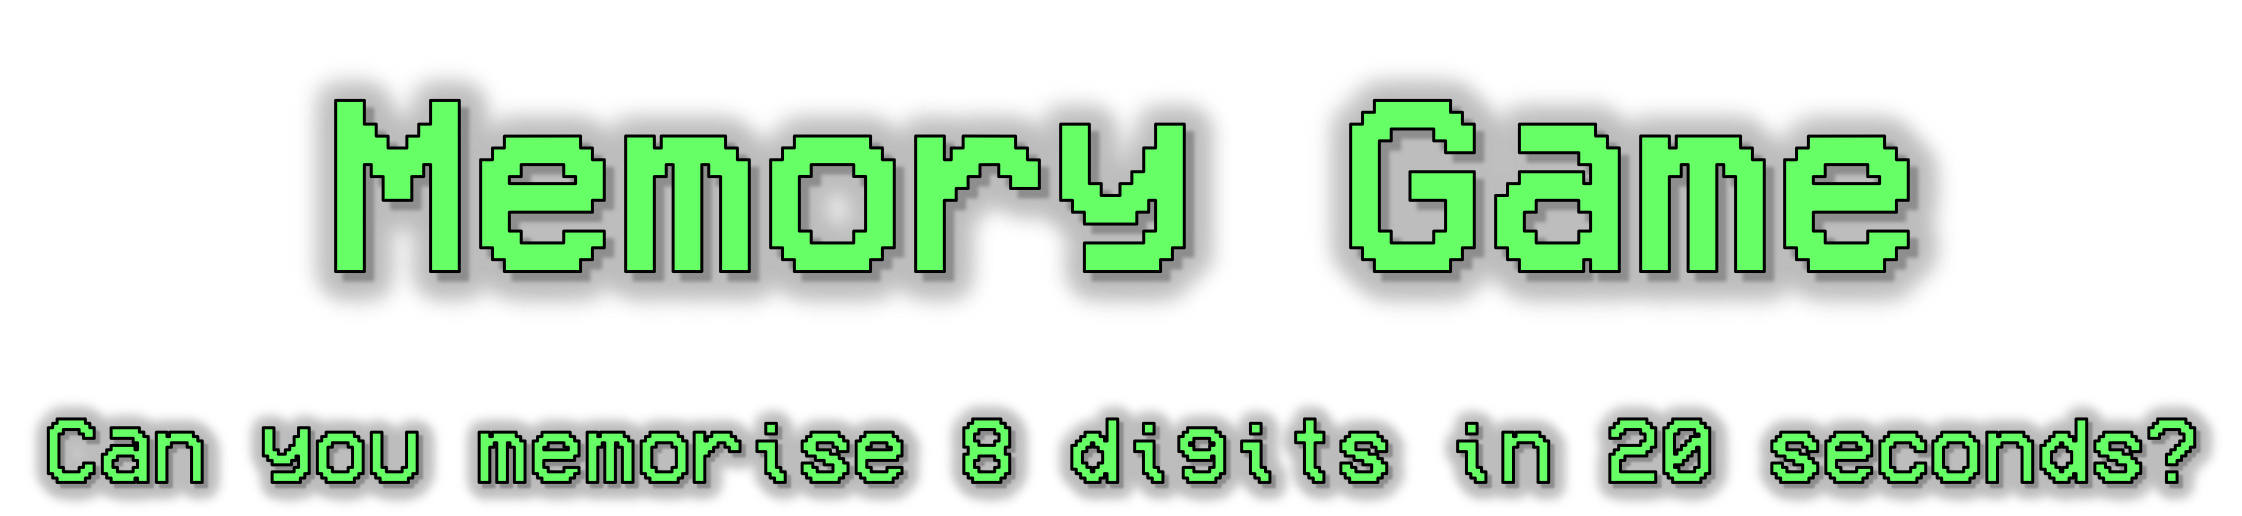
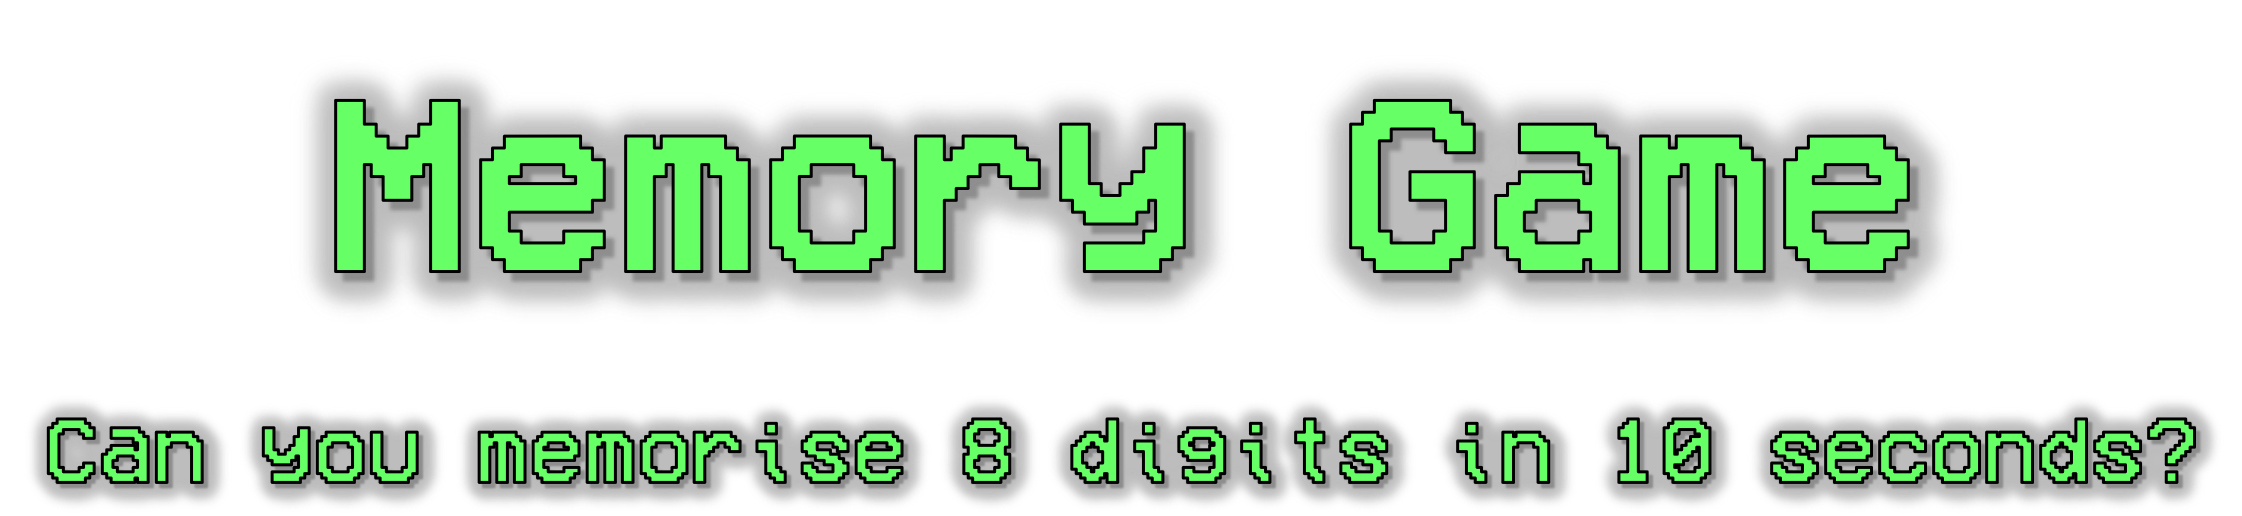
Add visual countdown to memory game

Changed region(s): [[0.8118, 0.8372, 0.9367, 0.9302], [0.6869, 0.8062, 0.7493, 0.9612]]

diff --git a/core/src/main/java/io/github/pirateducks/level/college/ConstantineMemoryGame.java b/core/src/main/java/io/github/pirateducks/level/college/ConstantineMemoryGame.java
@@ -19,6 +19,7 @@ import io.github.pirateducks.screen.Screen;
 import javax.swing.*;
 import java.util.Arrays;
 import java.util.Random;
+import java.util.concurrent.TimeUnit;
 
 
 public class ConstantineMemoryGame extends College {
@@ -32,6 +33,8 @@ public class ConstantineMemoryGame extends College {
     private Sprite startGameSprite;
     private Texture closeTexture;
     private Sprite closeSprite;
+    private Texture countdownTexture;
+    private Sprite countdownSprite;
 
 
     private Array<Texture> cardTextures = new Array<>();
@@ -90,12 +93,19 @@ public class ConstantineMemoryGame extends College {
             currentxpos += 105;
         }
 
+        countdownTexture = new Texture("memoryGame/countdown-10.png");
+        countdownSprite = new Sprite(countdownTexture);
+
+        scaleRatio = (countdownSprite.getWidth()/camera.viewportWidth * 6.0f);
+        countdownSprite.setSize(countdownSprite.getWidth()/scaleRatio,countdownSprite.getHeight()/scaleRatio);
+        countdownSprite.setPosition(camera.viewportWidth/2 - countdownSprite.getWidth()/2,(camera.viewportHeight/2 - countdownSprite.getHeight()/2 - 100));
+
         startGameTexture = new Texture("memoryGame/start-game.png");
         startGameSprite = new Sprite(startGameTexture);
 
         scaleRatio = (startGameSprite.getWidth()/camera.viewportWidth * 3.0f);
         startGameSprite.setSize(startGameSprite.getWidth()/scaleRatio,startGameSprite.getHeight()/scaleRatio);
-        startGameSprite.setPosition(camera.viewportWidth/2 - startGameSprite.getWidth()/2,(camera.viewportHeight/2 - startGameSprite.getHeight()/2 - 100));
+        startGameSprite.setPosition(camera.viewportWidth/2 - startGameSprite.getWidth()/2,(camera.viewportHeight/2 - startGameSprite.getHeight()/2 - 200));
 
         buttons.add(startGameSprite);
 
@@ -105,7 +115,7 @@ public class ConstantineMemoryGame extends College {
 
         scaleRatio = (closeSprite.getWidth()/camera.viewportWidth * 3.0f);
         closeSprite.setSize(closeSprite.getWidth()/scaleRatio,closeSprite.getHeight()/scaleRatio);
-        closeSprite.setPosition(camera.viewportWidth/2 - closeSprite.getWidth()/2,(camera.viewportHeight/2 - closeSprite.getHeight()/2 - 100));
+        closeSprite.setPosition(camera.viewportWidth/2 - closeSprite.getWidth()/2,(camera.viewportHeight/2 - closeSprite.getHeight()/2 - 200));
 
         buttons.add(closeSprite);
         closeSprite.setAlpha(0);
@@ -163,6 +173,10 @@ public class ConstantineMemoryGame extends College {
             closeSprite.draw(batch);
         }
 
+        if (countdownSprite != null){
+            countdownSprite.draw(batch);
+        }
+
         if (!cardTextures.isEmpty() && !cardSprites.isEmpty()){
             for (int x=0;x<8;x++){
                 cardSprites.get(x).draw(batch);
@@ -170,7 +184,7 @@ public class ConstantineMemoryGame extends College {
         }
     }
 
-    private int countdownLength = 5;
+    private int countdownLength = 10;
 
     private Timer.Task countdown = new Timer.Task(){
         int numSeconds = countdownLength;
@@ -178,30 +192,35 @@ public class ConstantineMemoryGame extends College {
         public void run(){
             System.out.println(numSeconds);
             numSeconds -= 1;
+            String filepath = "memoryGame/countdown-" + numSeconds + ".png";
+            countdownTexture = new Texture(filepath);
+            countdownSprite.setTexture(countdownTexture);
+            float scaleRatio = (countdownSprite.getWidth()/camera.viewportWidth * 6.0f);
+            countdownSprite.setSize(countdownSprite.getWidth()/scaleRatio,countdownSprite.getHeight()/scaleRatio);
+            countdownSprite.setPosition(camera.viewportWidth/2 - countdownSprite.getWidth()/2,(camera.viewportHeight/2 - countdownSprite.getHeight()/2 - 100));
+
             if (numSeconds == 0){
                 hideCards();
                 countdown.cancel();
                 numSeconds = countdownLength;
-                checkDigits();
                 inGame = false;
                 gameFinished = true;
+                checkDigits();
             }
         }
     };
 
     private void hideCards(){
-
-    }
-
-
-    private void checkDigits(){
-
         for (int x =0;x<8;x++){
             System.out.println(x);
             String filepath = "memoryGame/question-mark.png";
             cardTextures.set(x,new Texture(filepath));
             cardSprites.get(x).setTexture(cardTextures.get(x));
         }
+    }
+
+
+    private void checkDigits(){
 
         // Convert int array to single string
         StringBuilder builder = new StringBuilder();
@@ -213,7 +232,10 @@ public class ConstantineMemoryGame extends College {
         JFrame frame = new JFrame();
 
         System.out.println("now asking");
-        String digits = JOptionPane.showInputDialog("Enter the digits you have just memorised: ");
+        //String digits = "";
+
+        String digits = JOptionPane.showInputDialog("Enter the digits you have memorised:");
+
 
         if (digits != null && digits.equals(correctDigits)){
             JOptionPane.showMessageDialog(frame,"Correct");
@@ -226,6 +248,14 @@ public class ConstantineMemoryGame extends College {
         inGame = false;
         // Show close button
         closeSprite.setAlpha(1);
+
+        // Show cards again
+        //for (int x =0;x<8;x++){
+            //System.out.println(x);
+            //String filepath = "memoryGame/card-" + digitsToMemorise[x] + ".png";
+            //cardTextures.set(x,new Texture(filepath));
+            //cardSprites.get(x).setTexture(cardTextures.get(x));
+        //}
 
     }
 
